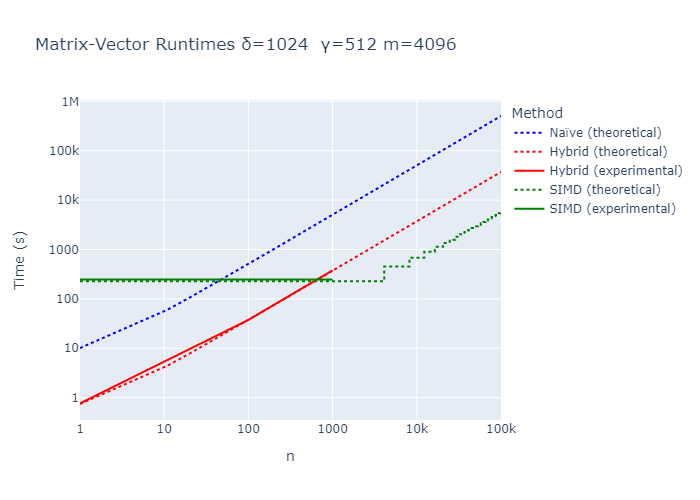
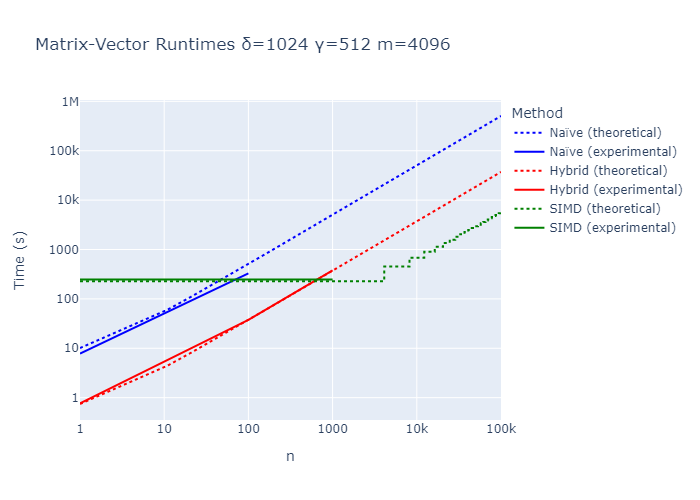
Mult Depth vs Error Chart created

diff --git a/unencrypted_normalization.py b/unencrypted_normalization.py
@@ -6,6 +6,12 @@ import plotly.express as px
 import plotly.graph_objects as go
 import pandas
 
+import os
+
+import numpy as np
+
+from scipy.optimize import curve_fit
+
 def reencrypt(enc_vector, context):
     plain = enc_vector.decrypt()
     return ts.ckks_vector(context,plain)
@@ -150,24 +156,177 @@ def efficient_normalize(vector, context, dimensionality):
     print("inv norm",inverse_norm)
     return vector * inverse_norm
 
+def poly5(x, a1, b1, c1, d1, e1, f1, a2, b2, c2, d2, e2, f2):
+    x = a1 + b1 * x + c1 * x**2 + d1 * x**3 + e1 * x**4 + f1 * x**5
+    x = a2 + b2 * x + c2 * x**2 + d2 * x**3 + e2 * x**4 + f2 * x**5
+    return x
+
+def poly4(x, a1, b1, c1, d1, e1, a2, b2, c2, d2, e2):
+    x = a1 + b1 * x + c1 * x**2 + d1 * x**3 + e1 * x**4
+    x = a2 + b2 * x + c2 * x**2 + d2 * x**3 + e2 * x**4
+    return x
+
+
+def poly3(x, a1, b1, c1, d1, a2, b2, c2, d2):
+    x = a1 + b1 * x + c1 * x**2 + d1 * x**3
+    x = a2 + b2 * x + c2 * x**2 + d2 * x**3
+    return x
+
+
+def poly2(x, a1, b1, c1, d1, a2, b2, c2):
+    x = a1 + b1 * x + c1 * x**2 + d1 * x**3
+    x = a2 + b2 * x + c2 * x**2
+    return x
+
+
+def poly1(x, a1, b1, c1, d1, a2, b2):
+    #if abs(b2) < 1e-12:
+        #b2 = 0
+    x = a1 + b1 * x + c1 * x**2 + d1 * x**3
+    x = a2 + b2 * x
+    return x
+
+def poly0(x, a1, b1):
+    x = a1 + b1 * x
+    return x
+    
+
+def poly_approximation():
+    #np.random.seed(1000)
+    
+    if not os.path.exists("figures"):
+        os.mkdir("figures")
+    if not os.path.exists("figures/polynomial_approximations"):
+        os.mkdir("figures/polynomial_approximations")
+    #x = [1.0 * i for i in range(500,4000)]
+    x = [1.0 * i for i in range(1,500)]
+    #x = [1 * i for i in range(1000,5000)]
+    y = [1/(i**0.5) for i in x]
+    x = np.array(x)#.reshape(-1,1)
+    y = np.array(y)
+    
+    funs = [poly1, poly2, poly3, poly4]
+    degrees = [4,5,6,8]
+    worsts = []
+    stds = []
+    for i, myfun in enumerate(funs):
+        print(degrees[i])
+        popt, pcov = curve_fit(myfun, x, y)
+        errors = []
+        worst = 0
+        for j in range(1,499):
+            error = abs(myfun(x[j], *popt)-y[j])/y[j]
+            if error > worst:
+                worst = error
+            errors.append(error)
+        mean = sum(errors)/len(errors)
+        total = 0
+        #errors_list.append(errors)
+        for error in errors:
+            total += (error-mean)**2
+        std = (total/len(errors))**0.5
+        stds.append(std)
+        worsts.append(mean)
+        
+    mult_depths_gold = [9,12,15,18]
+    mult_depth_poly = [4,5,6,8]
+        
+    data_dict = {"Multiplicative Depth":mult_depth_poly, r'$\frac{|G(x)-y|}{|y|}$':worsts}
+    df = pandas.DataFrame(data_dict)
+    fig = go.Figure(layout = go.Layout(title = go.layout.Title(text="Mult. Depth vs Relative Error")))
+    fig.add_trace(
+        go.Scatter(
+            mode='markers',
+            x=data_dict["Multiplicative Depth"],
+            y=data_dict[r'$\frac{|G(x)-y|}{|y|}$'],
+            error_y=dict(type='data', array=stds),
+            name="Polynomial"
+            #marker={'color':'red'},
+            #showlegend=False
+        )
+    )
+    
+        
+
+    worsts = []
+    stds = []
+    errors_list = []
+    y_lists = []
+    for j in range(1,5):
+        worst = 0
+        errors = []
+        y = []
+        for i in range(1,500):
+            y.append(gold_test(i,None,j))
+            error = ((1/(i**0.5))-gold_test(i,None,j))/(1/(i**0.5))
+            if error > worst:
+                worst = error
+            errors.append(error)
+        mean = sum(errors)/len(errors)
+        total = 0
+        errors_list.append(errors)
+        for error in errors:
+            total += (error-mean)**2
+        std = (total/len(errors))**0.5
+        stds.append(std)
+        print(worst)
+        worsts.append(mean)
+    
+    
+    fig.add_trace(
+        go.Scatter(
+            mode='markers',
+            x=mult_depths_gold,
+            y=worsts,
+            error_y=dict(type='data', array=stds),
+            name="Goldschmidt's Algorithm"
+            #marker={'color':'red'},
+            #showlegend=False
+        )
+    )
+    
+    #fig = px.scatter(df,x="Multiplicative Depth",y=r'$\frac{|G(x)-y|}{|y|}$',title="Mult. Depth vs Relative Error",error_y=stds)
+    
+    #fig.update_yaxes(range=[0,0.25])
+    
+    fig.update_yaxes(range=[0,0.35])
+    
+    fig.update_xaxes(title="Multiplicative Depth")
+    fig.update_yaxes(title=r'$\frac{|f(x)-y|}{|y|}$')
+    
+    fig_file_name = "figures/ErrorComparison.png"
+    fig.write_image(fig_file_name)
+    print("done")
+        
+
+#poly_approximation()       
+
 worsts = []
 stds = []
+errors_list = []
+y_lists = []
 for j in range(1,5):
     worst = 0
     errors = []
+    y = []
     for i in range(1,500):
+        y.append(gold_test(i,None,j))
         error = ((1/(i**0.5))-gold_test(i,None,j))/(1/(i**0.5))
         if error > worst:
             worst = error
         errors.append(error)
     mean = sum(errors)/len(errors)
     total = 0
+    errors_list.append(errors)
     for error in errors:
         total += (error-mean)**2
     std = (total/len(errors))**0.5
     stds.append(std)
+    y_lists.append(y)
     print(worst)
     worsts.append(mean)
+    
+    
 mult_depths = [9,12,15,18]
 data_dict = {"Multiplicative Depth":mult_depths, r'$\frac{|G(x)-y|}{|y|}$':worsts}
 df = pandas.DataFrame(data_dict)
@@ -185,3 +344,45 @@ fig2.update_yaxes(type="log")
 
 fig_file_name = "figures/GoldschmidtsErrorsLog.png"
 fig2.write_image(fig_file_name)
+
+
+true_y = [1/i**0.5 for i in range(1,500)]
+x = [i for i in range(1,500)]
+for i, errors in enumerate(errors_list):
+    data_dict = {r'$\frac{|G(x)-y|}{|y|}$':errors, "X":x}
+    df = pandas.DataFrame(data_dict)
+    fig = px.line(df,x="X",y=r'$\frac{|G(x)-y|}{|y|}$',title="Goldschmidt's Relative Error Mult Depth="+str(9+3*i))
+    
+    #fig.update_xaxes(title_font=dict(size=18))
+    fig.update_yaxes(title_font=dict(size=40))
+    
+    fig_file_name = "figures/goldschmidts_errors_multdepth=" + str(9+3*i) + ".png"
+    fig.write_image(fig_file_name)
+    
+    fig = go.Figure(layout = go.Layout(title = go.layout.Title(text="Goldschmidt's, Mult Depth="+str(9+3*i))))
+    fig.add_trace(
+        go.Scatter(
+            mode='lines',
+            x=x,
+            y=y_lists[i],
+            marker={'color':'red'},
+            showlegend=False
+        )
+    )
+    fig.add_trace(
+        go.Scatter(
+            mode='lines',
+            x=x,
+            y=true_y,
+            marker={'color':'black'},
+            showlegend=False
+        )
+    )
+    
+    fig.update_layout(
+        xaxis_title="X",
+        yaxis_title="Y"
+    )
+    
+    fig_file_name = "figures/goldschmidts_multdepth=" + str(9+3*i) + ".png"
+    fig.write_image(fig_file_name)

diff --git a/plot_generation.py b/plot_generation.py
@@ -565,6 +565,21 @@ def plot_matmul_performance_theoretical():
 
         figTime.add_trace(go.Scatter(x=data_dictTime["n"],y=data_dictTime["Time (s)"], mode="lines",name="Naïve (theoretical)",line=dict(color='blue', dash='dot')))
         
+        if i==0:
+            #Naive Experimental
+            time = []
+            experimental_ns = [1,100]
+            times = [7807.18,328179]
+            time = [t/1000 for t in times]
+    
+            data_dictTime = {"n":experimental_ns,"Time (s)":time}
+            dfTime = pandas.DataFrame(data_dictTime)
+    
+            figTime.add_trace(go.Scatter(x=data_dictTime["n"],y=data_dictTime["Time (s)"], mode="lines",name="Naïve (experimental)",line=dict(color='blue')))
+            
+        
+        
+        
         #HYBRID
         time = []
         for n in ns:
@@ -622,7 +637,7 @@ def plot_matmul_performance_theoretical():
         mem = []
         for n in ns:
             n_prime = math.ceil(n/math.floor(m/(2*delta)))
-            mem.append((gamma*p+n_prime*p)/1000)
+            mem.append((gamma*p+n_prime*p))
 
         data_dictMem = {"n":ns,"Mem":mem}
 
@@ -644,7 +659,7 @@ def plot_matmul_performance_theoretical():
         mem = []
         for n in ns:
             n_prime = math.ceil(n/m)
-            mem.append((delta*gamma*p+gamma*n_prime*p)/1000)
+            mem.append((delta*gamma*p+gamma*n_prime*p))
 
         data_dictMem = {"n":ns,"Mem":mem}
 
